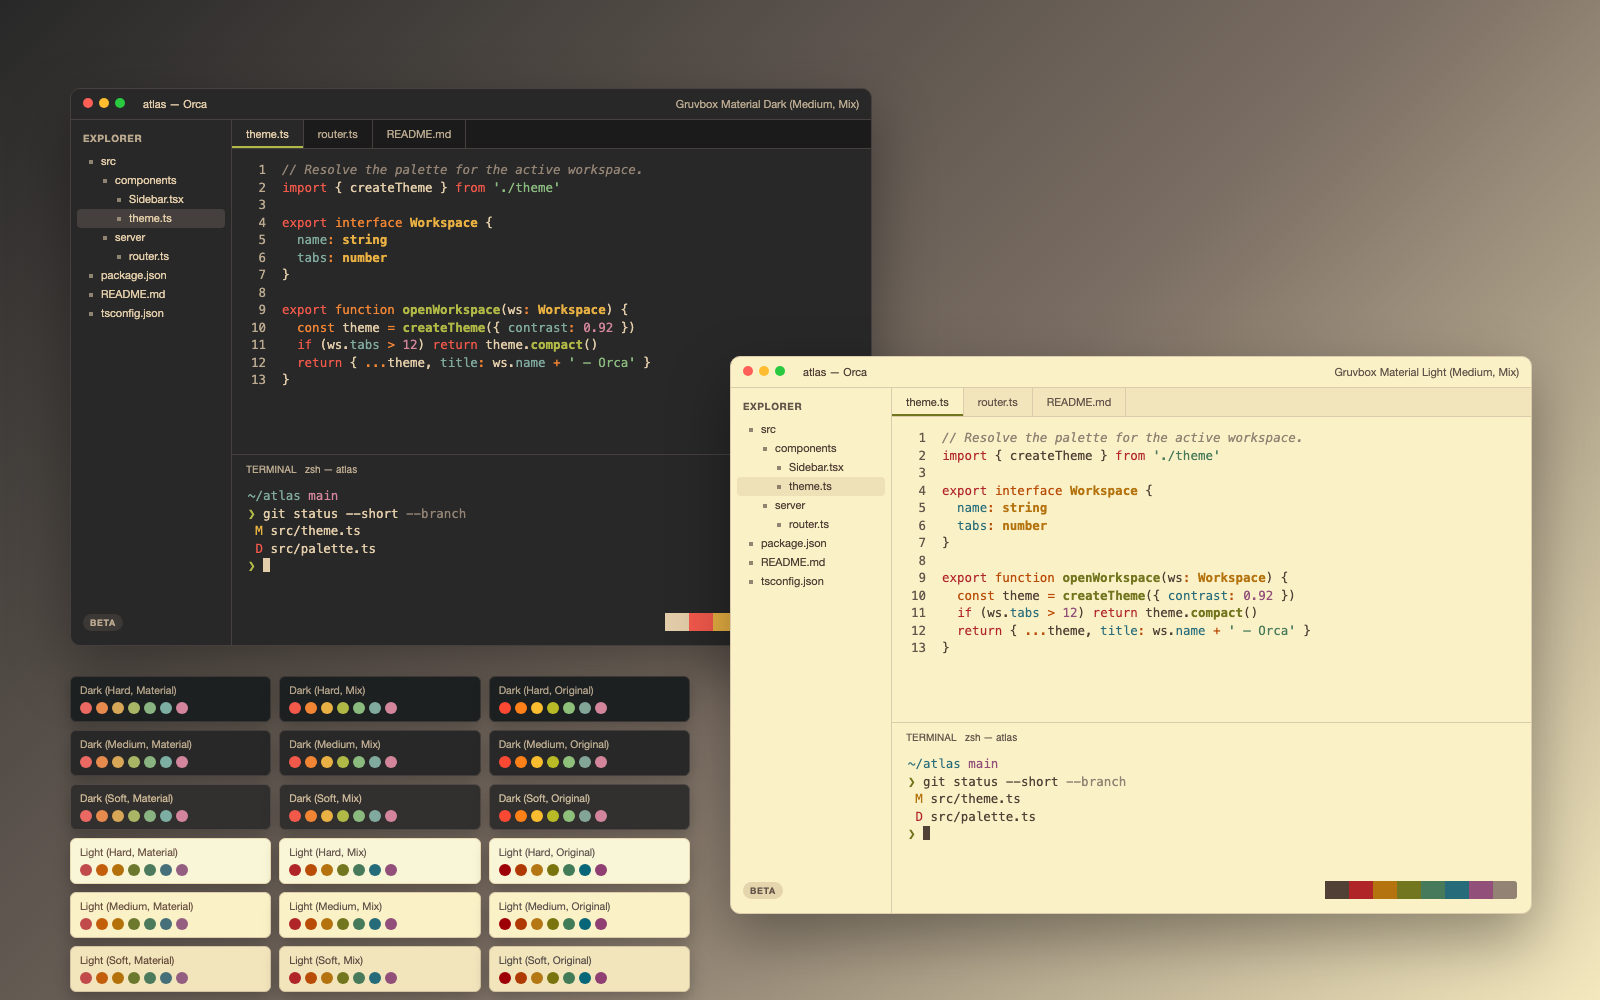
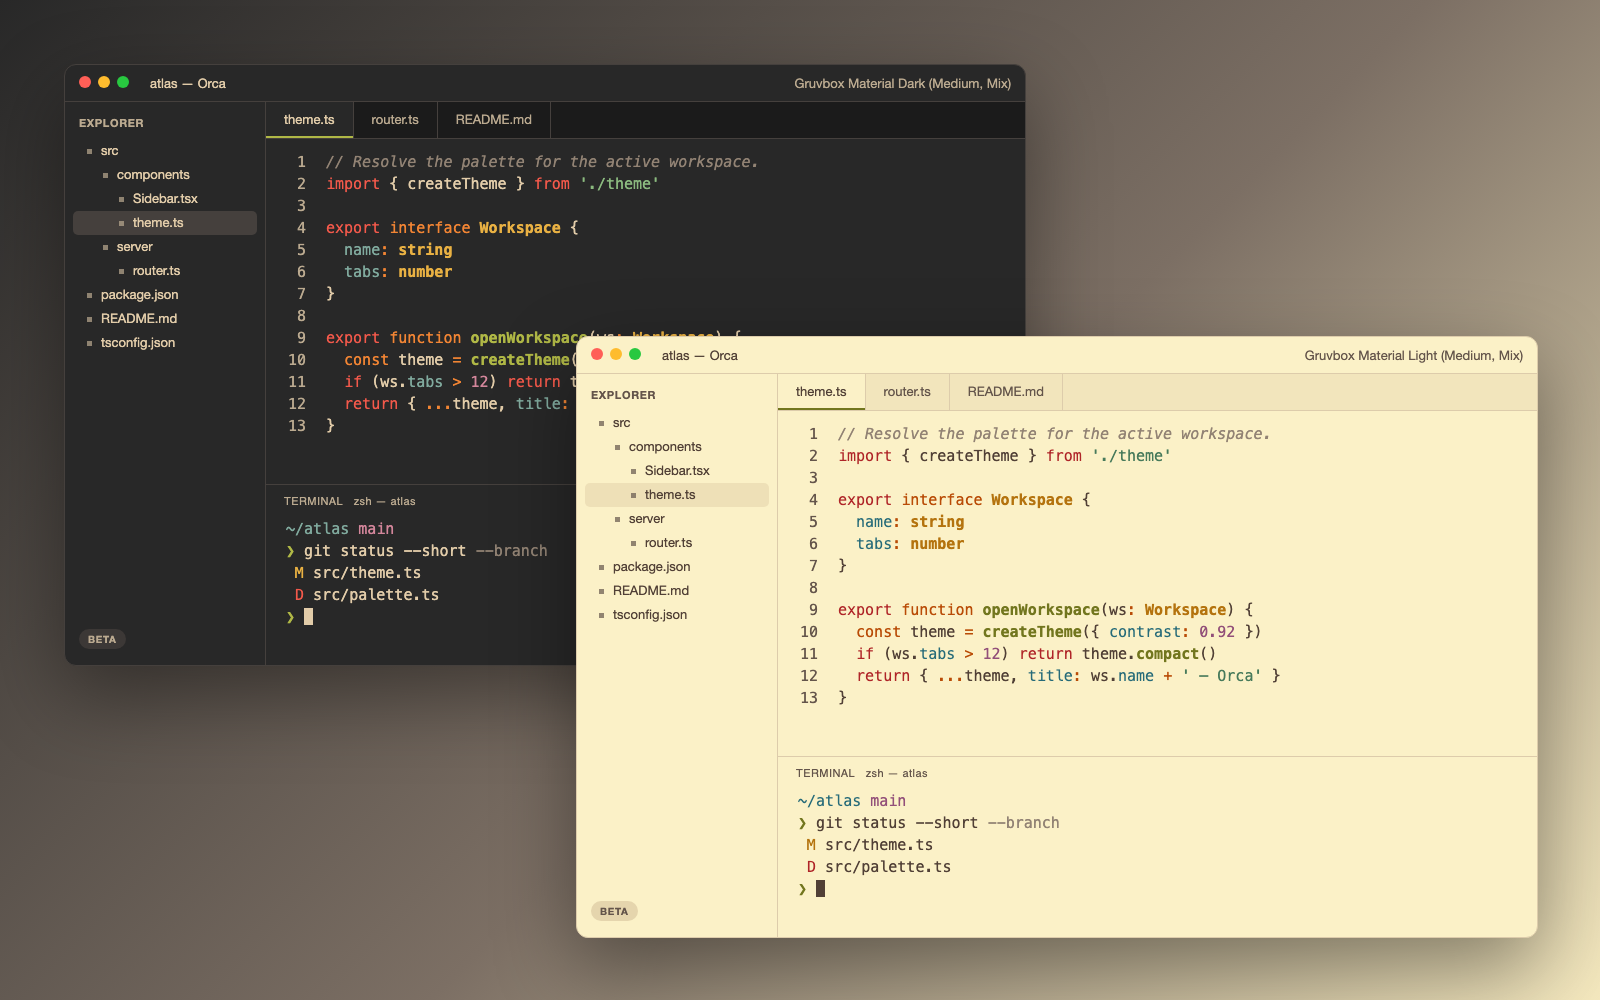
docs(readme): fix check badge, follow the README template, rebalance cover (#1)
The shields.io workflow badge timed out behind GitHub's image proxy (camo)
whenever shields had no cached status, so it rendered broken about half the
time; GitHub's native workflow badge is served directly.

The README now follows the README template: numbered feature subsections,
usage workflows with their results, and the development section's layout.

The cover drops the variant and terminal swatches and uses two equal 16:10
windows with equal margins and larger type, matching the 16:10 frame Orca
shows covers in.

Changed region(s): [[0.0312, 0.062, 0.9688, 0.992], [0.5312, 0.558, 0.8125, 0.682]]

diff --git a/src/gruvbox_orca/cover.css b/src/gruvbox_orca/cover.css
@@ -9,105 +9,89 @@ body {
 }
 .win {
   position: absolute;
-  width: 800px;
-  height: 556px;
+  width: 960px;
+  height: 600px;
   display: flex;
   flex-direction: column;
   overflow: hidden;
   border: 1px solid var(--border);
-  border-radius: 10px;
+  border-radius: 12px;
   background: var(--bg);
   color: var(--fg);
-  box-shadow: 0 24px 60px rgba(0, 0, 0, 0.35);
+  box-shadow: 0 30px 80px rgba(0, 0, 0, 0.4);
 }
-.win.dark { left: 70px; top: 88px; }
-.win.light { left: 730px; top: 356px; }
+.win.dark { left: 64px; top: 64px; }
+.win.light { left: 576px; top: 336px; }
 .bar {
-  height: 30px;
+  height: 36px;
+  flex: none;
   display: flex;
   align-items: center;
-  gap: 12px;
-  padding: 0 12px;
-  font-size: 11px;
+  gap: 14px;
+  padding: 0 14px;
+  font-size: 13px;
   border-bottom: 1px solid var(--border);
 }
 .bar .name { margin-left: auto; color: var(--muted-fg); }
-.lights i { display: inline-block; width: 10px; height: 10px; border-radius: 50%; margin-right: 6px; }
+.lights i { display: inline-block; width: 12px; height: 12px; border-radius: 50%; margin-right: 7px; }
 .body { flex: 1; display: flex; min-height: 0; }
 .side {
-  width: 160px;
+  width: 200px;
+  flex: none;
   position: relative;
-  padding-top: 8px;
-  font-size: 11px;
+  padding-top: 10px;
+  font-size: 13px;
   border-right: 1px solid var(--sidebar-border);
 }
-.head { padding: 4px 12px 8px; font-size: 10px; font-weight: 600; letter-spacing: 0.06em; color: var(--muted-fg); }
-.row { height: 19px; line-height: 19px; margin: 0 6px; border-radius: 4px; }
+.head { padding: 4px 14px 10px; font-size: 11px; font-weight: 600; letter-spacing: 0.06em; color: var(--muted-fg); }
+.row { height: 24px; line-height: 24px; margin: 0 8px; border-radius: 5px; }
 .row.sel { background: var(--sidebar-accent); }
 .dot {
   display: inline-block;
-  width: 4px;
-  height: 4px;
-  margin-right: 8px;
+  width: 5px;
+  height: 5px;
+  margin-right: 9px;
   vertical-align: middle;
   opacity: 0.7;
   background: var(--muted-fg);
 }
 .badge {
   position: absolute;
-  left: 12px;
-  bottom: 14px;
-  padding: 3px 7px;
+  left: 14px;
+  bottom: 16px;
+  padding: 4px 9px;
   border-radius: 999px;
-  font-size: 9px;
+  font-size: 10px;
   font-weight: 600;
   letter-spacing: 0.08em;
   background: var(--muted);
   color: var(--muted-fg);
 }
 .main { flex: 1; display: flex; flex-direction: column; min-width: 0; }
-.tabs { height: 28px; display: flex; font-size: 11px; background: var(--tab-bar); border-bottom: 1px solid var(--border); }
+.tabs {
+  height: 36px;
+  flex: none;
+  display: flex;
+  font-size: 13px;
+  background: var(--tab-bar);
+  border-bottom: 1px solid var(--border);
+}
 .tab {
-  padding: 0 14px;
-  line-height: 28px;
+  padding: 0 18px;
+  line-height: 36px;
   border-right: 1px solid var(--border);
   background: var(--tab-inactive);
   color: var(--tab-inactive-fg);
 }
 .tab.on { background: var(--tab-active); color: var(--tab-active-fg); box-shadow: inset 0 -2px 0 var(--tab-indicator); }
-.code { flex: 1; padding: 12px 0; font: 12.5px/17.5px "SF Mono", Menlo, monospace; white-space: pre; }
-.ln .no { display: inline-block; width: 34px; margin-right: 16px; text-align: right; color: var(--muted-fg); }
+.code { flex: 1; padding: 12px 0; font: 15px/22px "SF Mono", Menlo, monospace; white-space: pre; }
+.ln .no { display: inline-block; width: 40px; margin-right: 20px; text-align: right; color: var(--muted-fg); }
 .term {
-  height: 190px;
-  position: relative;
-  font: 12.5px/17.5px "SF Mono", Menlo, monospace;
+  height: 180px;
+  flex: none;
+  font: 15px/22px "SF Mono", Menlo, monospace;
   border-top: 1px solid var(--border);
 }
-.thead { padding: 8px 14px; font: 10px -apple-system, sans-serif; color: var(--muted-fg); }
-.tbody { padding: 4px 16px; white-space: pre; }
-.cursor { display: inline-block; width: 7px; height: 14px; vertical-align: -2px; }
-.swatches { position: absolute; right: 14px; bottom: 14px; display: flex; border-radius: 3px; overflow: hidden; }
-.swatches span { width: 24px; height: 18px; }
-.variants {
-  position: absolute;
-  left: 70px;
-  top: 676px;
-  width: 620px;
-  display: grid;
-  grid-template-columns: repeat(3, 1fr);
-  gap: 8px;
-}
-.chip {
-  display: flex;
-  flex-direction: column;
-  gap: 6px;
-  padding: 7px 9px;
-  font-size: 10.5px;
-  border: 1px solid var(--border);
-  border-radius: 6px;
-  background: var(--bg);
-  color: var(--muted-fg);
-  box-shadow: 0 6px 16px rgba(0, 0, 0, 0.25);
-}
-.chip b { display: flex; gap: 4px; }
-.chip i { width: 12px; height: 12px; border-radius: 50%; }
+.thead { padding: 10px 18px 6px; font: 11px -apple-system, sans-serif; letter-spacing: 0.04em; color: var(--muted-fg); }
+.tbody { padding: 4px 20px; white-space: pre; }
+.cursor { display: inline-block; width: 9px; height: 17px; vertical-align: -3px; }

diff --git a/src/gruvbox_orca/cover.py b/src/gruvbox_orca/cover.py
@@ -144,15 +144,6 @@ TREE = [
 ]
 
 FEATURED = "medium-mix"
-CHIP_RULES = (
-    "Keywords",
-    "Storage modifiers",
-    "Types",
-    "Functions",
-    "Strings",
-    "Properties and keys",
-    "Numbers, booleans and built-in constants",
-)
 CSS_VARIABLES = {
     "--bg": "--background",
     "--fg": "--foreground",
@@ -168,7 +159,6 @@ CSS_VARIABLES = {
     "--tab-inactive": "--tab-inactive",
     "--tab-inactive-fg": "--tab-inactive-foreground",
 }
-TERMINAL_SWATCHES = ("background", "foreground", "red", "yellow", "green", "cyan", "blue", "magenta", "brightBlack")
 
 
 def load(slug: str) -> tuple[dict, dict, dict]:
@@ -217,12 +207,11 @@ def window(mode: str) -> str:
     tokens, syntax, term = load(f"{mode}-{FEATURED}")
     title = f"Gruvbox Material {mode.title()} (Medium, Mix)"
     tree = "".join(
-        f'<div class="row{" sel" if selected else ""}" style="padding-left:{12 + depth * 14}px">'
+        f'<div class="row{" sel" if selected else ""}" style="padding-left:{14 + depth * 16}px">'
         f'<span class="dot"></span>{html.escape(name)}</div>'
         for depth, name, selected in TREE
     )
     code = "".join(code_line(n, parts, syntax) for n, parts in enumerate(CODE, 1))
-    swatches = "".join(f'<span style="background:{term[key]}"></span>' for key in TERMINAL_SWATCHES)
     lights = "".join(f'<i style="background:{c}"></i>' for c in ("#ff5f57", "#febc2e", "#28c840"))
     tabs = '<span class="tab on">theme.ts</span><span class="tab">router.ts</span><span class="tab">README.md</span>'
     return f"""
@@ -236,27 +225,15 @@ def window(mode: str) -> str:
       <div class="term">
         <div class="thead">TERMINAL&nbsp;&nbsp;&nbsp;zsh — atlas</div>
         <div class="tbody" style="color:{term["foreground"]}">{terminal_lines(term)}</div>
-        <div class="swatches">{swatches}</div>
       </div>
     </div>
   </div>
 </div>"""
 
 
-def variant_chips() -> str:
-    manifest = json.loads((ROOT / "orca-plugin.json").read_text())
-    chips = []
-    for entry in manifest["contributes"]["themes"]:
-        tokens, syntax, _ = load(entry["id"].removeprefix("gruvbox-material-"))
-        dots = "".join(f'<i style="background:{syntax[name]["foreground"]}"></i>' for name in CHIP_RULES)
-        label = html.escape(entry["title"].removeprefix("Gruvbox Material "))
-        chips.append(f'<div class="chip" style="{theme_variables(tokens)}"><span>{label}</span><b>{dots}</b></div>')
-    return f'<div class="variants">{"".join(chips)}</div>'
-
-
 def page() -> str:
     css = (Path(__file__).parent / "cover.css").read_text()
-    body = window("dark") + window("light") + variant_chips()
+    body = window("dark") + window("light")
     return f'<!doctype html><html><head><meta charset="utf-8"><style>{css}</style></head><body>{body}</body></html>'
 
 

diff --git a/README.md b/README.md
@@ -2,18 +2,18 @@
 
 # Gruvbox Material for Orca
 
-Every [Gruvbox Material](https://github.com/sainnhe/gruvbox-material) variant as an Orca app, syntax and terminal theme.
+Every [Gruvbox Material](https://github.com/sainnhe/gruvbox-material) variant as Orca app, syntax and terminal themes, for Orca users who want sainnhe's palette everywhere.
 
 [Installation](#-installation) | [Usage](#-usage) | [Features](#-features) | [Development](#-development)
 
-[![Check](https://img.shields.io/github/actions/workflow/status/fang2hou/orca-gruvbox-material-theme/check.yml?branch=main&label=check&style=flat-square)](https://github.com/fang2hou/orca-gruvbox-material-theme/actions/workflows/check.yml)
+[![Check](https://github.com/fang2hou/orca-gruvbox-material-theme/actions/workflows/check.yml/badge.svg)](https://github.com/fang2hou/orca-gruvbox-material-theme/actions/workflows/check.yml)
 [![License: MIT](https://img.shields.io/badge/License-MIT-green.svg?style=flat-square)](./LICENSE)
 
 </div>
 
-The plugin ships all nine upstream combinations (hard, medium and soft backgrounds with the Material, Mix and Original foreground palettes) in dark and light. Colors come from sainnhe's palette definitions; a few are nudged the smallest amount needed so Orca's own contrast check keeps every color the theme sets.
+The plugin ships every upstream combination of background contrast (hard, medium, soft) and foreground palette (Material, Mix, Original), each in dark and light. Colors come from sainnhe's palette definitions, and the few that would fail Orca's contrast check are nudged the smallest amount needed to pass.
 
-![Gruvbox Material Dark and Light (Medium, Mix) in Orca, with swatches of every variant](images/cover.png)
+![Gruvbox Material Dark and Light (Medium, Mix) previews of the explorer, editor and terminal](images/cover.png)
 
 ## 📦 Installation
 
@@ -23,31 +23,45 @@ Requires Orca 1.4.245 or newer.
 orca plugin install fang2hou/orca-gruvbox-material-theme
 ```
 
-Installed copies update with `orca plugin update fang2hou.gruvbox-material-theme`.
-
 ## 🚀 Usage
 
-1. Open Orca's Appearance settings and pick a theme such as **Gruvbox Material Dark (Medium, Mix)** for the dark and light slots.
-2. Pick the theme of the same name in the terminal settings.
+Pick an app theme in Orca's Appearance settings, for example **Gruvbox Material Dark (Medium, Mix)** for the dark slot and **Gruvbox Material Light (Medium, Mix)** for the light slot.
 
-Theme names follow upstream's options: the background (`hard`, `medium`, `soft`) sets the contrast, and the foreground (`material`, `mix`, `original`) sets the accent palette.
+The app, the editor and its syntax colors switch to that variant.
+
+Pick the theme with the same name in the terminal settings.
+
+The terminal switches to the matching ANSI colors, background and cursor.
+
+Update to the latest themes:
+
+```sh
+orca plugin update fang2hou.gruvbox-material-theme
+```
+
+Theme names follow upstream's options: the background sets the contrast, and the foreground sets the accent palette.
 
 ## ✨ Features
 
-| Feature | Details |
-| --- | --- |
-| App theme | Uniform `bg0` panels, a recessed tab strip, raised menus, and every public Orca color token set from the palette |
-| Syntax colors | Gruvbox Material's own highlight groups: red keywords, aqua strings, bold green functions, bold yellow types, blue properties, plain variables |
-| Markdown and chat | Orange headings, red list markers, aqua inline code, and diff colors that stay readable in chat |
-| Terminal theme | Upstream's terminal mapping, with a dim bright black for autosuggestions and a readable block cursor |
-| Contrast-checked | Every theme passes a port of Orca's renderer contrast check, so Orca never swaps a color for its fallback |
-| Tinted sidebar aware | Hover fills stay visible when Orca's Tinted left sidebar is on |
+### `1` App theme
 
-Design decisions and the full palette mapping are in [ARCHITECTURE.md](./ARCHITECTURE.md).
+Panels share the `bg0` background, the tab strip sits one step below it, and menus sit one step above. Every public Orca color token comes from the palette, including chat, diff and git colors.
+
+### `2` Syntax colors
+
+Code follows Gruvbox Material's own highlight groups: red keywords, aqua strings, bold green functions, bold yellow types, blue properties and plain variables. Markdown gets orange headings, red list markers and aqua inline code.
+
+### `3` Terminal theme
+
+The terminal uses upstream's terminal mapping, with a dim bright black for shell autosuggestions and a block cursor that keeps the character under it readable.
+
+### `4` Contrast-checked colors
+
+Every theme passes a port of the contrast check Orca runs before painting a theme, so Orca never replaces one of its colors with a fallback. Hover fills stay visible when Orca's Tinted left sidebar is on.
 
 ## 🛠 Development
 
-Requires [mise](https://mise.jdx.dev/) on macOS or Linux; the toolchain is pinned in `mise.toml`.
+Requires [mise](https://mise.jdx.dev/) on macOS or Linux. Runtime and tool versions are pinned in `mise.toml`; no environment variables or external services are needed.
 
 ```sh
 mise install
@@ -55,10 +69,24 @@ mise run generate
 mise run test
 ```
 
-`mise run generate` rewrites `themes/`, `terminal/` and the manifest entries, and `mise run test` runs the full check and the unit tests. See [DEVELOPMENT.md](./DEVELOPMENT.md) for every task and the release steps.
+`mise run generate` rewrites `themes/`, `terminal/` and the manifest's theme list, and `mise run test` prints `OK` after the unit tests once every check passes. Run `mise run` to list all tasks (for example `report`, `cover`, `validate-plugin`).
+
+<details>
+<summary>Preview changes in Orca</summary>
+
+Load the working copy as a development plugin, switch to the changed themes, then unload it:
+
+```sh
+orca plugin dev load .
+orca plugin dev unload .
+```
+
+Workflow, release steps and the palette mapping are in [DEVELOPMENT.md](./DEVELOPMENT.md) and [ARCHITECTURE.md](./ARCHITECTURE.md).
+
+</details>
 
 ## 📄 License
 
 [MIT](./LICENSE)
 
-Gruvbox Material colors are by sainnhe (MIT). The Orca token and scope mapping started from [piter75/orca-gruvbox-material-theme](https://github.com/piter75/orca-gruvbox-material-theme) (MIT). Both notices are in [LICENSE](./LICENSE).
+Gruvbox Material colors are by sainnhe (MIT), and the Orca token and scope mapping started from [piter75/orca-gruvbox-material-theme](https://github.com/piter75/orca-gruvbox-material-theme) (MIT). Both notices are in [LICENSE](./LICENSE).
